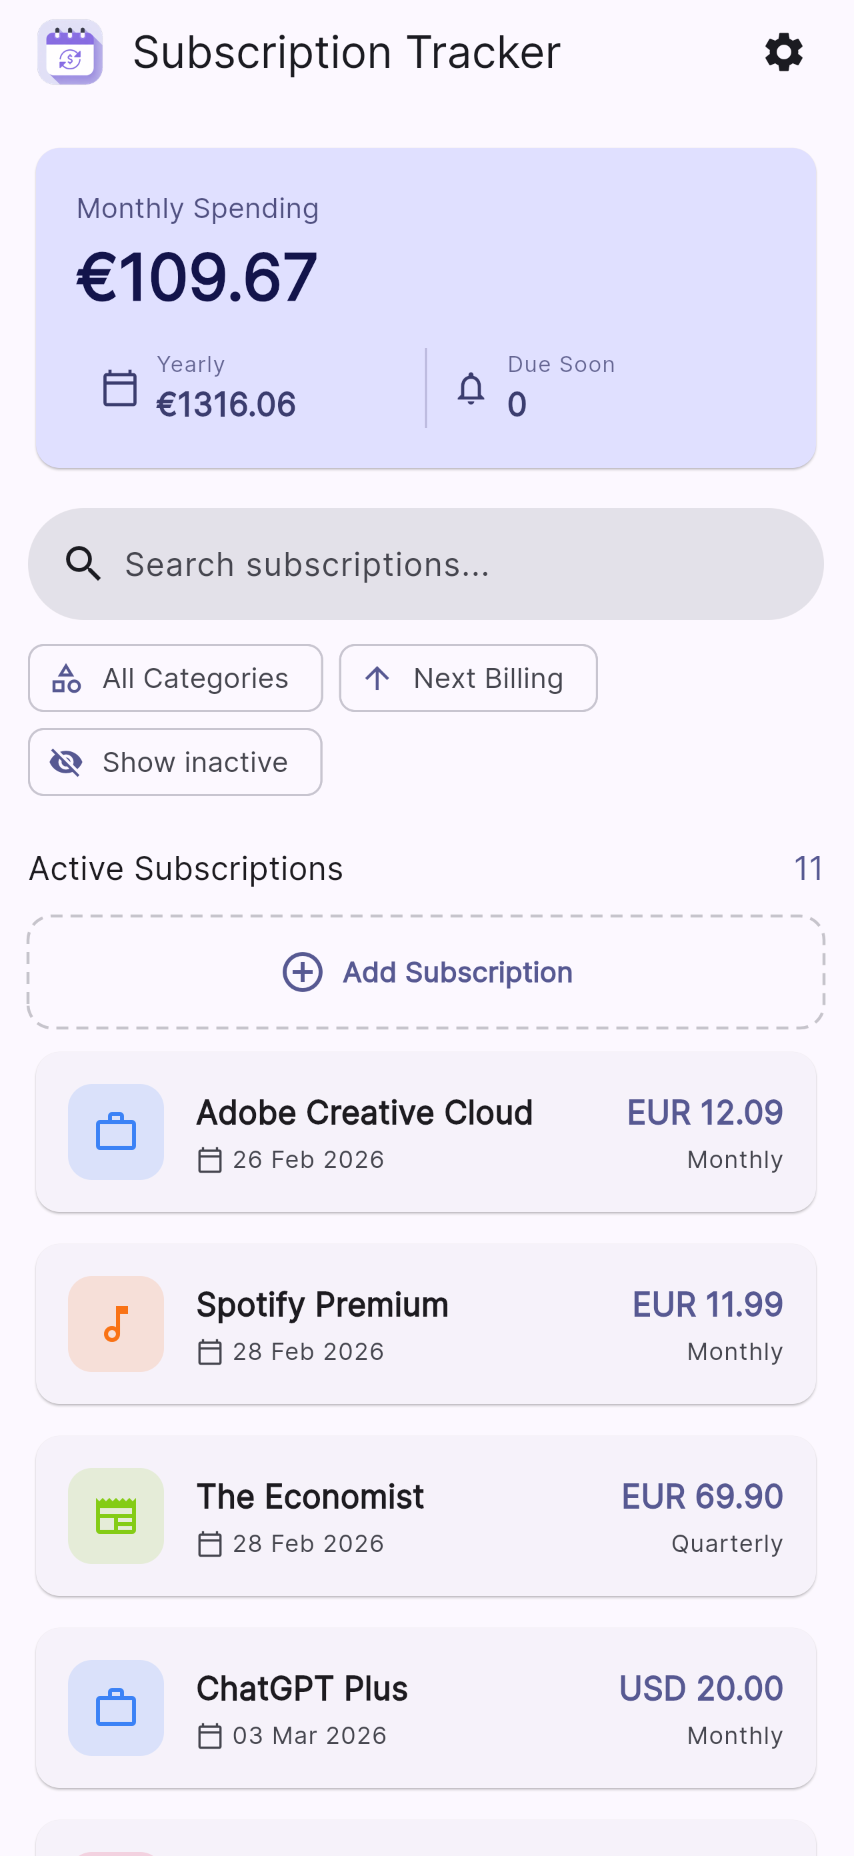
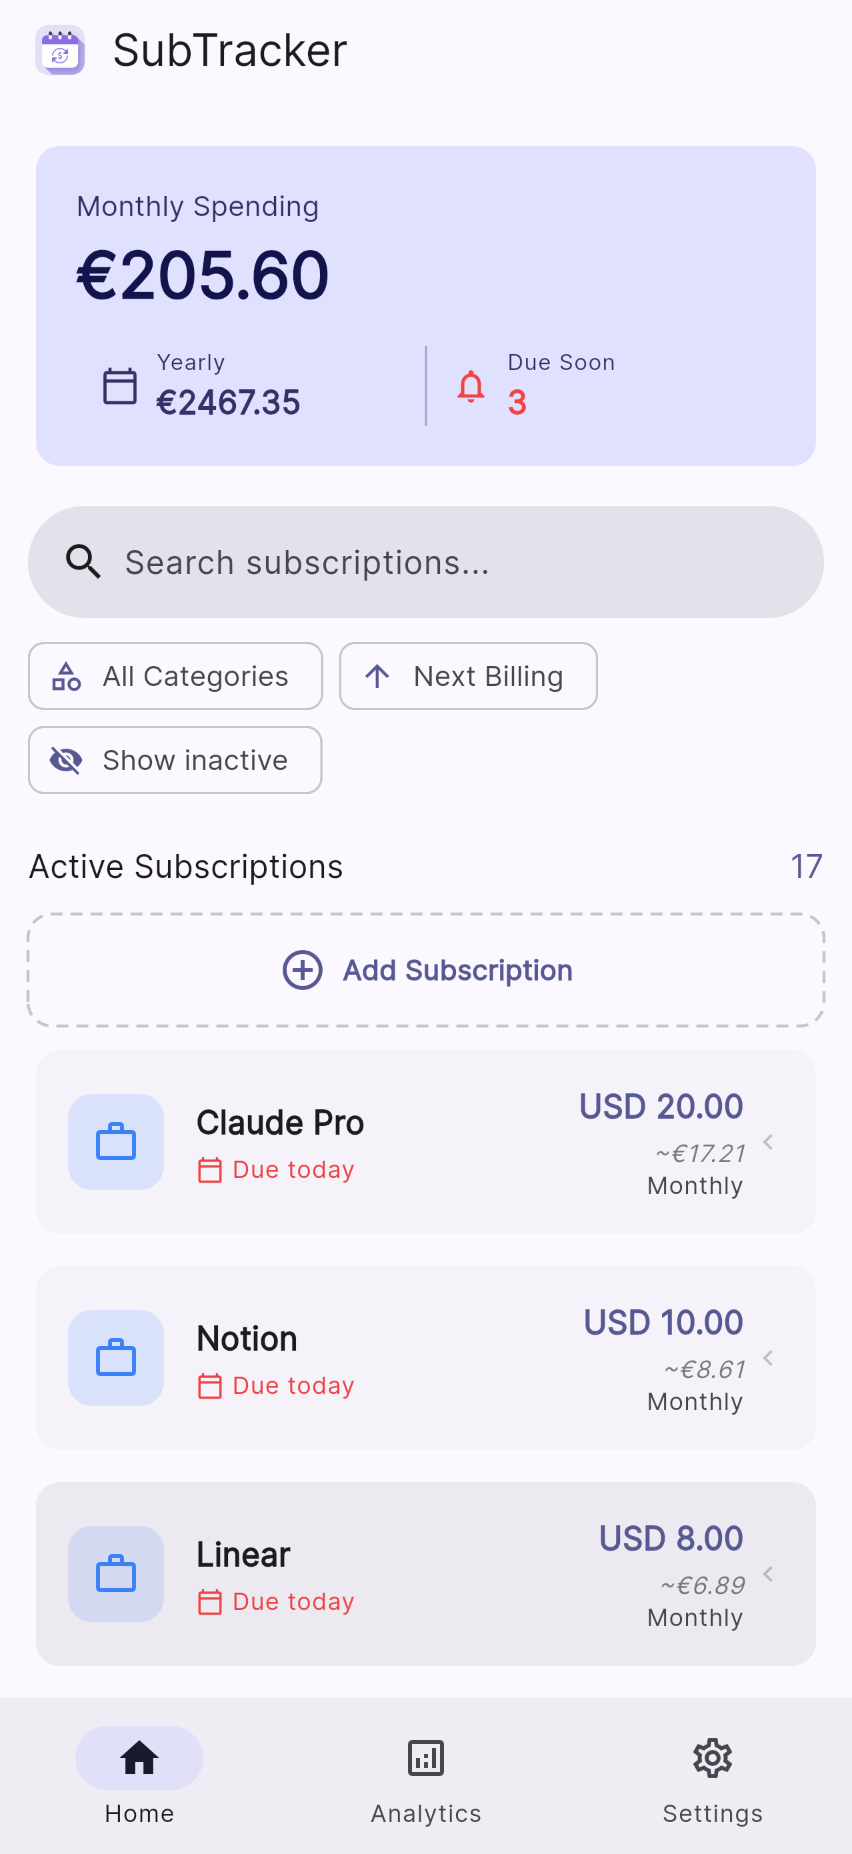
docs: add analytics screenshots to README
- **README.md**: add analytics section with 4 new screenshots
  (desktop dark hero, mobile dark, mobile light, desktop light)
- **screenshots**: add analytics-web-dark.png, analytics-web-light.png,
  analytics-mobile-dark-1.png, analytics-mobile-light-1.png
- **screenshots**: update existing screenshots with new NavigationBar
  visible (main-page, settings in both mobile and web variants)

diff --git a/README.md b/README.md
@@ -31,6 +31,26 @@ A full-stack subscription management app built with **Flutter** and **.NET 10**.
       <br /><sub><b>Settings — Light Mode</b></sub>
     </td>
   </tr>
+  <tr>
+    <td colspan="3" align="center">
+      <img src="screenshots/analytics-web-dark.png" alt="Analytics — desktop dark mode" width="700" />
+      <br /><sub><b>Analytics — Desktop (Dark Mode)</b></sub>
+    </td>
+  </tr>
+  <tr>
+    <td align="center">
+      <img src="screenshots/analytics-mobile-dark-1.png" alt="Analytics — mobile dark mode" width="250" height="549" />
+      <br /><sub><b>Analytics — Mobile (Dark)</b></sub>
+    </td>
+    <td align="center">
+      <img src="screenshots/analytics-mobile-light-1.png" alt="Analytics — mobile light mode" width="250" height="549" />
+      <br /><sub><b>Analytics — Mobile (Light)</b></sub>
+    </td>
+    <td align="center">
+      <img src="screenshots/analytics-web-light.png" alt="Analytics — desktop light mode" width="250" />
+      <br /><sub><b>Analytics — Desktop (Light)</b></sub>
+    </td>
+  </tr>
 </table>
 
 ## Features
@@ -190,17 +210,18 @@ All endpoints (except `/health` and `/swagger`) are protected by the `X-Api-Key`
 
 The all-in-one Docker image accepts the following environment variables:
 
-| Variable | Required | Default | Description |
-| -------- | -------- | ------- | ----------- |
-| `ConnectionStrings__Default` | Yes | — | SQLite connection string (e.g., `Data Source=/data/subtracker.db`) |
-| `ApiKey` | No | _(empty)_ | API key for backend endpoint protection. When set, all API requests must include the `X-Api-Key` header. Leave empty to disable |
-| `SUBTRACKER_API_KEY` | No | _(empty)_ | API key injected into the Flutter frontend at container startup. **Must match `ApiKey`** so the frontend can authenticate with the backend |
-| `Pushover__ApiToken` | No | _(empty)_ | Pushover application API token for push notifications |
-| `Pushover__UserKey` | No | _(empty)_ | Pushover user key for push notifications |
+| Variable                     | Required | Default   | Description                                                                                                                                |
+| ---------------------------- | -------- | --------- | ------------------------------------------------------------------------------------------------------------------------------------------ |
+| `ConnectionStrings__Default` | Yes      | —         | SQLite connection string (e.g., `Data Source=/data/subtracker.db`)                                                                         |
+| `ApiKey`                     | No       | _(empty)_ | API key for backend endpoint protection. When set, all API requests must include the `X-Api-Key` header. Leave empty to disable            |
+| `SUBTRACKER_API_KEY`         | No       | _(empty)_ | API key injected into the Flutter frontend at container startup. **Must match `ApiKey`** so the frontend can authenticate with the backend |
+| `Pushover__ApiToken`         | No       | _(empty)_ | Pushover application API token for push notifications                                                                                      |
+| `Pushover__UserKey`          | No       | _(empty)_ | Pushover user key for push notifications                                                                                                   |
 
 > **Important:** When using API key authentication, you must set **both** `ApiKey` (backend) and `SUBTRACKER_API_KEY` (frontend) to the same value. `ApiKey` protects the API endpoints; `SUBTRACKER_API_KEY` is injected into the Flutter `.env` asset at runtime so the frontend can send the key in every request.
 
 Generate a secure key with:
+
 ```bash
 openssl rand -base64 32
 ```
@@ -287,10 +308,10 @@ API_BASE_URL=http://localhost:5270/api
 API_KEY=dev-test-key-12345
 ```
 
-| Variable | Description |
-| -------- | ----------- |
-| `API_BASE_URL` | Backend API URL |
-| `API_KEY` | Sent as `X-Api-Key` header on every request. Leave empty if the backend has no API key configured |
+| Variable       | Description                                                                                       |
+| -------------- | ------------------------------------------------------------------------------------------------- |
+| `API_BASE_URL` | Backend API URL                                                                                   |
+| `API_KEY`      | Sent as `X-Api-Key` header on every request. Leave empty if the backend has no API key configured |
 
 > In Docker, these values are generated automatically by `docker/start.sh` from the environment variables `API_BASE_URL` (default: `/api`) and `SUBTRACKER_API_KEY`.
 
